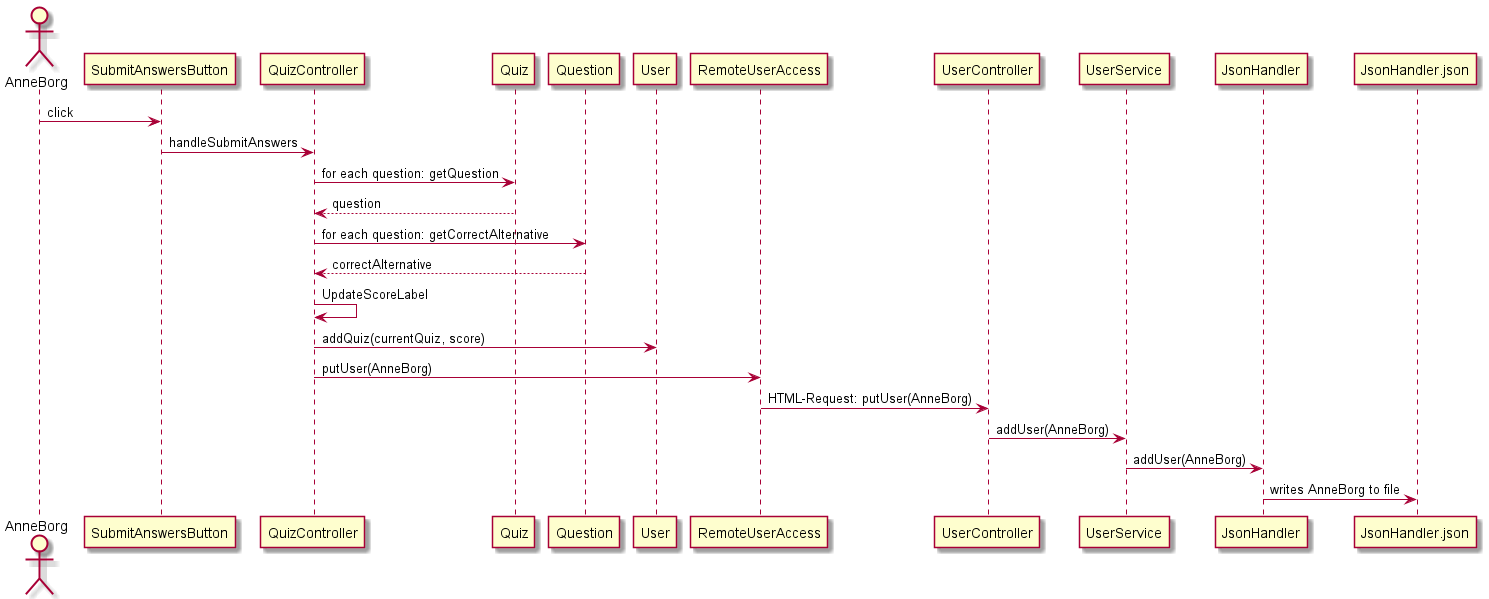
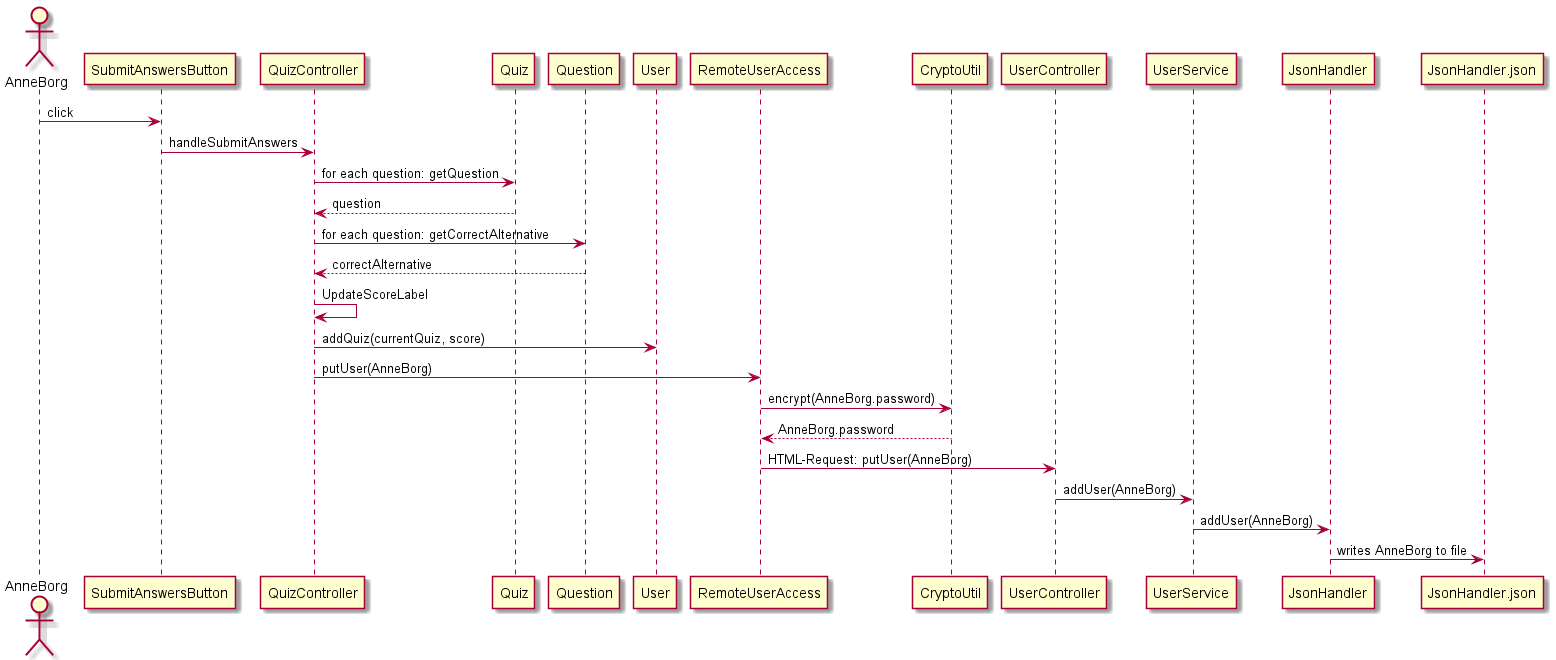
Updated sequence diagram in readme, and added user stories (#69)

Changed region(s): [[0.0, 0.0, 1.0, 0.9316], [0.3089, 0.0601, 1.0, 0.1503], [0.0, 0.8414, 0.2471, 0.9917]]

diff --git a/Quiz-app/userStories.md b/Quiz-app/userStories.md
@@ -1,0 +1,90 @@
+# User stories
+
+This app has five user stories, with some general demands towars the app. It describes the most important
+functions and usages we wantes to implement. Every modifications we have done has been about making these
+scenarios run as smooth as possible.
+
+## As a user I want to be able to take quizzes so I can use the main function of the app (us-1)
+
+The main idea behind this app is that you can take quizzes. Quiz is a popular game around the world, and
+we wanted to provide quizzes for users to take. The user has the opportunity to choose between a number 
+of quizzes. Each quiz contains three questions, and four answer alternatives per question. Ater the user
+takes a quiz, they get a score. Also to keep the app interesting, the users can also make their own quizzes, 
+that will pop up as a choice for all the users.
+
+**Important visuability**
+
+- See all the quizzes the user can take
+- The questions and alternatives the user can choose
+- The score the user got after submitting answers
+
+**Important functionality**
+
+- Choosing quizzes the user want to take
+- Button for submitting answers
+- Button for choosing what to answer
+
+
+## As a user I want to log in so I can save my results (us-2)
+
+To save results and scores gotten in the quizzes, the users should be able to log in. The log in function
+does also come in handy when several users want to compare scores. This function allows the app to create 
+a list of highscorers. The usernames should be unique, and everybody needs passwords.
+
+**Important visuability**
+
+- A page dedicated to log in
+- Which profile is active when the user is logged in (some users might have several profiles)
+
+**Important functionality**
+
+- Textfiels for writing usernames and password, and a log in Button
+- A button for logging out 
+- To start the app with log in page, regardless if the user logged off or not when they last closed the app
+
+
+## As a user I want to be taken to a front page so I can see my options in the app (us-3)
+
+The app has several options to do when logged in. Therefore we think it is best to have a main page where 
+the user has all its main options displayed. This includes amongst several things, which quiz to take to 
+make a new quiz, or maybe log off.
+
+**Important visuability**
+
+- Options to choose
+
+**Important functionality**
+
+- Buttons for choosing options
+
+
+## As a user I want to see my own profile so I can see my score in quizzes (us-4)
+
+The user also has benefits in having a personal page. This profile page would display user settings, and
+show the mean score of all the quizzes the user has taken.
+
+**Important visuability**
+
+- Mean score
+- Active user
+
+**Important functionality**
+
+- Button for taking user to profile page
+- Button for taking user back from profile page
+
+## As a user I want to create my own user so I can log in (us-5)
+
+New users need the chance to create their own profile. At the sign up page the user can create a new username and
+password and sign up. The next time the user uses the app, they can just log in as usual at the log in page. To 
+access the sign up page, there should be a button that takes the user to this page from log in page. There is also
+a button that takes the user back to log in page, if the user happens to click the wrong button.
+
+**Important visuability**
+
+- A page dedicated to log in
+
+**Important functionality**
+
+- Button that takes user both to and from sign up page
+- Textfield the user can fill inn new username and password, and button to sign up

diff --git a/Quiz-app/README.md b/Quiz-app/README.md
@@ -75,10 +75,6 @@ Passord **gitlab**
 In the presistance-layer, all classes and logic connected to saving and reading from files are located.
 
 
-**Diagram describing the file saving:**
-
-![Image of JSON diagram](../Images/JSONdiagram.png)
-
 This layer also contains CryptoUtil. This is an encryption class used to ensure safe use of the restAPI. AES encryption is used
 
 ## Core
@@ -96,10 +92,6 @@ In the restapi part of the repo, all files connected to saving and Spring-boot a
 
 
 This illustrative plan is meant to represent the functunality of our app at its current stage. The colored arrows show how different stages occur as a result of interactions with the visual representations. As an example, with the correct password and username, the user can access the main page via the login button. 
-
-
-**User stories:**
-https://docs.google.com/document/d/1onM4Twf8udwkJ4Me4JwiqlhbbePsnBw3_q8_uEFCKUw/edit?ts=5f58a80c
 
 
 ### Diagrams
